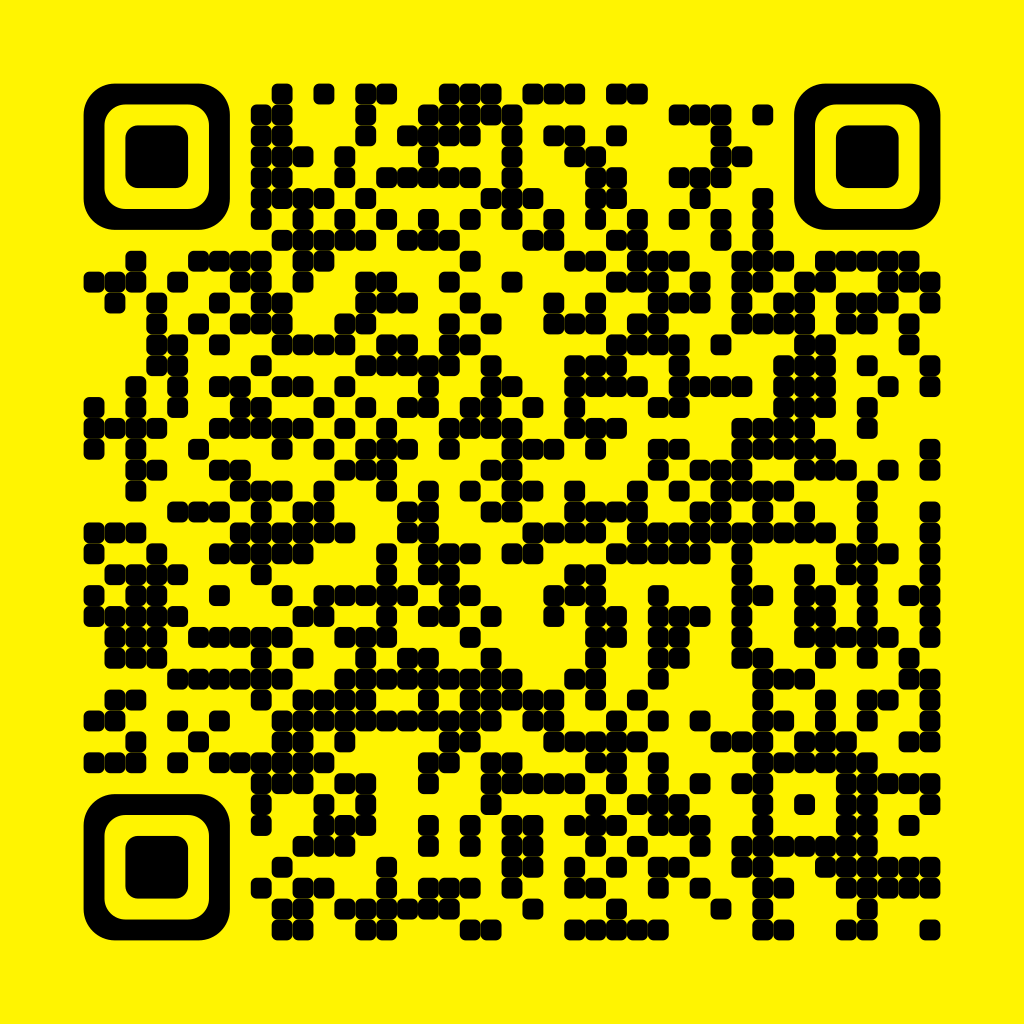
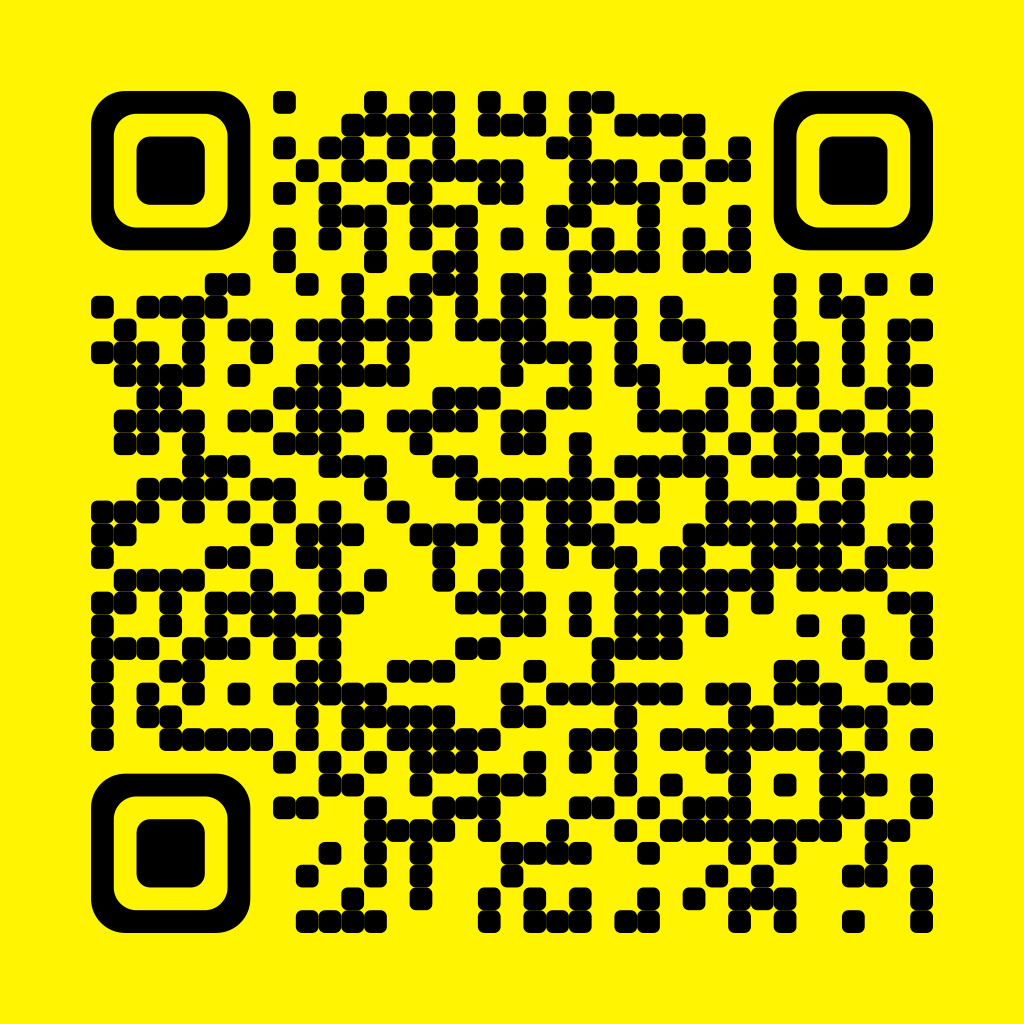
feat: dedicated /waitlist page for the QR
Scanning now lands on a standalone server-rendered form — no scroll, no
modal-open dance. Form panel shared via WaitlistPanel component; QR regenerated
to point at /waitlist.

diff --git a/components/WaitlistPanel.tsx b/components/WaitlistPanel.tsx
@@ -1,0 +1,65 @@
+"use client";
+
+import { useActionState } from "react";
+import { useFormStatus } from "react-dom";
+import { joinWaitlist, type WaitlistState } from "@/app/actions/waitlist";
+import { Button } from "@/components/Button";
+
+function SubmitButton() {
+  const { pending } = useFormStatus();
+  return (
+    <Button
+      type="submit"
+      className="w-full font-outfit"
+      aria-disabled={pending}
+      onClick={(e) => pending && e.preventDefault()}
+    >
+      {pending ? "Joining…" : "Join the waitlist"}
+    </Button>
+  );
+}
+
+// The bare form panel — used standalone on /waitlist (QR target) and inside
+// the dialog on the landing page. Shared so the flow is identical in both.
+export function WaitlistPanel() {
+  const [state, action] = useActionState<WaitlistState, FormData>(joinWaitlist, null);
+
+  return (
+    <section className="bg-card text-foreground w-[min(21.25rem,calc(100vw-2.5rem))] rounded-3xl p-6 text-center">
+      {state?.ok ? (
+        <>
+          <h1 className="display text-[1.5rem]">{state.message}</h1>
+          <p className="text-muted-foreground mt-3 text-[0.9375rem] leading-relaxed">
+            We will email you when CLEVR opens.
+          </p>
+        </>
+      ) : (
+        <>
+          <h1 className="display text-[1.5rem]">Join the waitlist</h1>
+          <p className="text-muted-foreground mt-3 text-[0.9375rem] leading-relaxed">
+            One field, one tap.
+          </p>
+          <form action={action} className="mt-5 flex flex-col gap-3">
+            <input
+              type="email"
+              name="email"
+              required
+              autoFocus
+              autoComplete="email"
+              inputMode="email"
+              placeholder="you@example.com"
+              aria-label="Email"
+              className="border-muted-foreground text-foreground placeholder:text-muted-foreground focus:border-foreground h-14 w-full rounded-full border bg-transparent px-5 text-center text-[1rem]"
+            />
+            <SubmitButton />
+          </form>
+          {state && !state.ok && (
+            <p role="alert" className="text-foreground mt-3 text-[0.9375rem] font-medium">
+              {state.message}
+            </p>
+          )}
+        </>
+      )}
+    </section>
+  );
+}

diff --git a/app/waitlist/page.tsx b/app/waitlist/page.tsx
@@ -1,0 +1,27 @@
+import type { Metadata } from "next";
+import Image from "next/image";
+import { WaitlistPanel } from "@/components/WaitlistPanel";
+
+export const metadata: Metadata = {
+  title: "Join the CLEVR waitlist",
+  description: "One field, one tap. We'll email you when CLEVR opens.",
+};
+
+// Dedicated landing for the QR: the form is the whole screen. No header nav,
+// no scroll, no modal to open — server-rendered so it's visible on first paint.
+export default function WaitlistPage() {
+  return (
+    <main className="flex min-h-dvh flex-col items-center justify-center gap-8 py-10">
+      <Image
+        src="/logo.png"
+        alt="CLEVR"
+        width={1774}
+        height={887}
+        priority
+        sizes="180px"
+        className="h-16 w-auto"
+      />
+      <WaitlistPanel />
+    </main>
+  );
+}

diff --git a/components/WaitlistForm.tsx b/components/WaitlistForm.tsx
@@ -1,7 +1,6 @@
 "use client";
 
-import { useActionState, useEffect, useRef } from "react";
-import { useSearchParams } from "next/navigation";
+import { useActionState, useRef } from "react";
 import { useFormStatus } from "react-dom";
 import { joinWaitlist, type WaitlistState } from "@/app/actions/waitlist";
 import { Button } from "@/components/Button";
@@ -31,12 +30,6 @@ function SubmitButton() {
 export function WaitlistForm() {
   const [state, action] = useActionState<WaitlistState, FormData>(joinWaitlist, null);
   const ref = useRef<HTMLDialogElement>(null);
-  const params = useSearchParams();
-
-  // Auto-open when arriving from the QR (?open=waitlist). One shot per mount.
-  useEffect(() => {
-    if (params.get("open") === "waitlist") ref.current?.showModal();
-  }, [params]);
 
   return (
     <>
